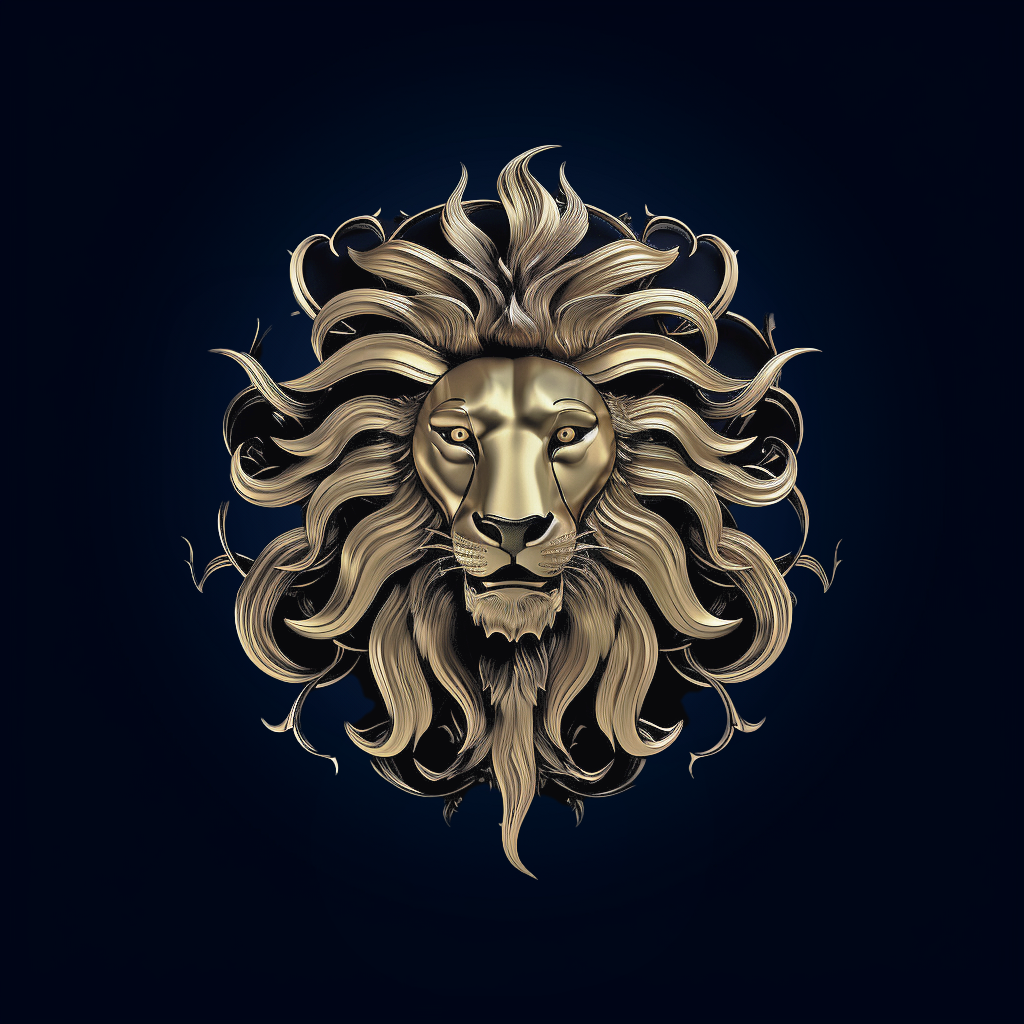
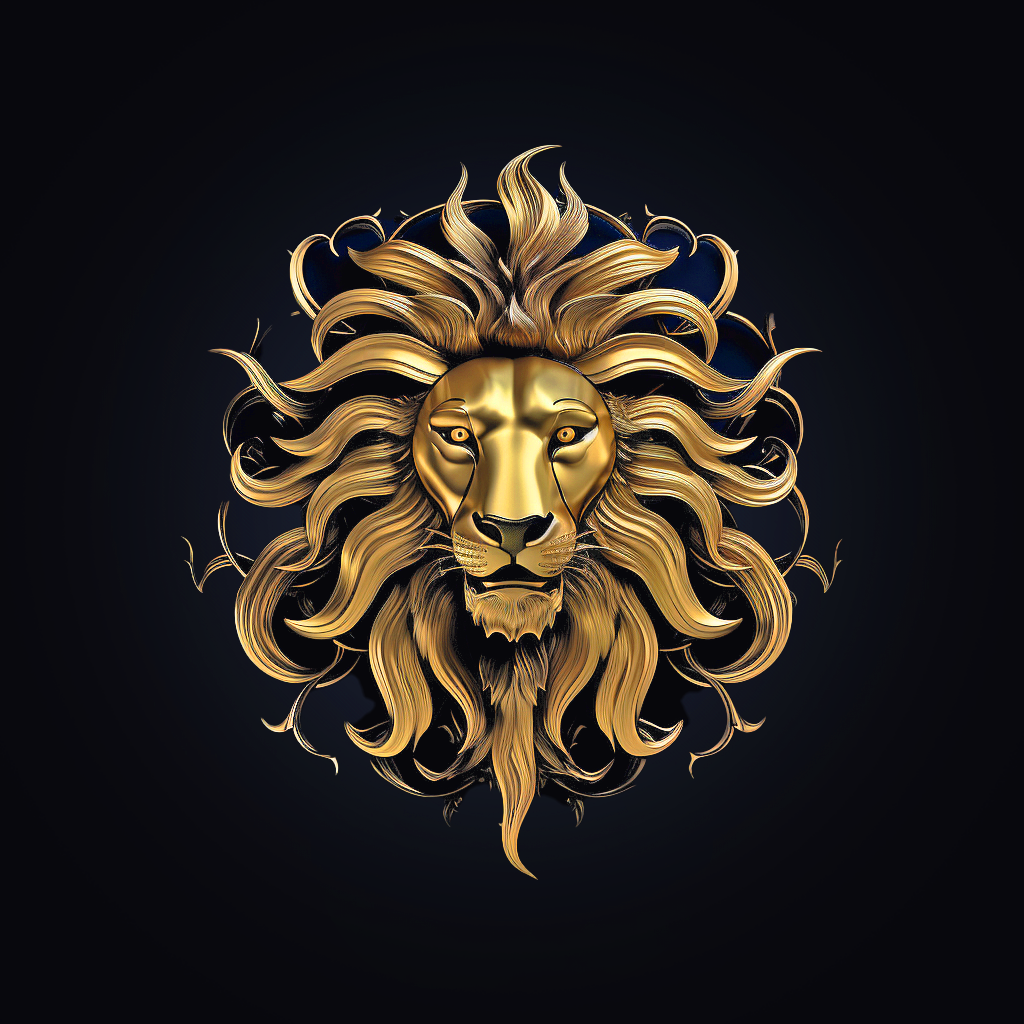
Images

Changed region(s): [[0.2188, 0.1562, 0.8125, 0.8438], [0.2812, 0.6562, 0.3125, 0.6875], [0.2188, 0.3438, 0.25, 0.375]]

diff --git a/src/components/greeting/GreetingForm.js b/src/components/greeting/GreetingForm.js
@@ -21,13 +21,20 @@ const GreetingForm = ({ navigation }) => {
     const greetingPage = appConfig[user.language]["GreetingPage"];
 
     const images = {
-        "Welcome": require('../../static/image/midjourneycat_by_Bess_Hamiti_Starry_sky_realistic_photo.png'),
-        "Daily": require('../../static/image/midjourneycat_by_Tami_Bone_Starry_sky_realistic_photo.png'),
-        "Profile": require('../../static/image/midjourneycat_by_Banksy_Starry_sky_realistic_photo.png'),
-        "Astrobot": require('../../static/image/midjourneycat_by_David_Carson_Starry_sky_realistic_photo.png'),
-        "Content": require('../../static/image/midjourneycat_by_Neville_Brody_Starry_sky_realistic_photo.png'),
-        "Push": require('../../static/image/midjourneycat_by_Scarlett_Hooft_Graafland_Starry_sky_realistic_photo.png'),
-        "Premium": require('../../static/image/midjourneycat_by_Peter_Saville_Starry_sky_realistic_photo.png'),
+        "Welcome": require('../../static/image/Sky1.png'),
+        //"Welcome": require('../../static/image/midjourneycat_by_Bess_Hamiti_Starry_sky_realistic_photo.png'),
+        "Daily": require('../../static/image/Sky2.png'),
+        //"Daily": require('../../static/image/midjourneycat_by_Tami_Bone_Starry_sky_realistic_photo.png'),
+        "Profile": require('../../static/image/Sky3.png'),
+        //"Profile": require('../../static/image/midjourneycat_by_Banksy_Starry_sky_realistic_photo.png'),
+        "Astrobot": require('../../static/image/Sky4.png'),
+        //"Astrobot": require('../../static/image/midjourneycat_by_David_Carson_Starry_sky_realistic_photo.png'),
+        "Content": require('../../static/image/Sky5.png'),
+        //"Content": require('../../static/image/midjourneycat_by_Neville_Brody_Starry_sky_realistic_photo.png'),
+        "Push": require('../../static/image/Sky6.png'),
+        //"Push": require('../../static/image/midjourneycat_by_Scarlett_Hooft_Graafland_Starry_sky_realistic_photo.png'),
+        "Premium": require('../../static/image/Sky7.png'),
+        //"Premium": require('../../static/image/midjourneycat_by_Peter_Saville_Starry_sky_realistic_photo.png'),
         // ...
     };
 

diff --git a/src/components/greeting/GreetingPage.js b/src/components/greeting/GreetingPage.js
@@ -24,34 +24,39 @@ const GreetingPage = ({ imageSource, headerText, bodyText }) => {
 const styles = StyleSheet.create({
     container: {
         flex: 1,
-        width: '100%',
+        width: screenWidth,
         alignItems: 'center',
-        marginTop: 10,
+        marginTop: 20,
         // borderWidth: 1,
         // borderColor: "red" 
     },
     image: {
-        width: screenWidth,
+        padding: 20,
+        width: screenWidth - 60,
         height: imageHeight,
+        borderRadius: designConstants.borderRadius,
+        borderWidth: 1,
+        borderColor: "#181d2e"
     },
     textContainer: {
         //padding: 16,
-        marginTop: 10,
+        marginTop: 20,
         width: screenWidth - 30,
 
     },
     header: {
-        fontSize: 34,
+        fontSize: 30,
         lineHeight: 40,
         textAlign: 'center',
         flexWrap: 'wrap',
     },
     body: {
         fontSize: 16,
-        //lineHeight: 32,
+        lineHeight: 22,
         paddingTop: 10,
         textAlign: 'justify',
         flexWrap: 'wrap',
+        //fontFamily: 'Raleway-LightItalic'
         // borderWidth: 1,
         // borderColor: "red" 
     },

diff --git a/src/components/entryPoints/UserGate.js b/src/components/entryPoints/UserGate.js
@@ -38,7 +38,7 @@ export default function UserGate() {
                 </View>
             </Container>
             <Stack.Navigator initialRouteName="SignIn">
-                <Stack.Screen
+                {/* <Stack.Screen
                     name="SignIn"
                     component={SignIn}
                     options={{ headerShown: false }}
@@ -72,7 +72,7 @@ export default function UserGate() {
                     name="Subscription"
                     component={SubscriptionScreenWrapper}
                     options={{ headerShown: false }}
-                />
+                /> */}
                 <Stack.Screen
                     name="GreetingForm"
                     component={GreetingForm}

diff --git a/src/hooks/loadFonts.js b/src/hooks/loadFonts.js
@@ -12,6 +12,8 @@ export function useFonts() {
                 'Raleway-Black': require('../static/fonts/raleway/Raleway-Black.ttf'),
                 'Raleway-Medium': require('../static/fonts/raleway/Raleway-Medium.ttf'),
                 'Raleway-Heavy': require('../static/fonts/raleway.heavy.ttf'),
+                'Raleway-Italic': require('../static/fonts/raleway/Raleway-Italic.ttf'),
+                'Raleway-LightItalic': require('../static/fonts/raleway/Raleway-LightItalic.ttf'),
             });
             setFontLoaded(true);
         }

diff --git a/src/components/astrobots/AstrobotPage.js b/src/components/astrobots/AstrobotPage.js
@@ -80,9 +80,12 @@ const styles = StyleSheet.create({
 
     },
     image: {
-        width: 280,
-        height: 280,
-        marginTop: 0, // Отступ сверху
+        width: 270,
+        height: 270,
+        marginTop: 10,
+        borderRadius: designConstants.borderRadius,
+        borderWidth: 1,
+        borderColor: colors.gold
         //marginBottom: 10,
         // borderWidth: 1,
         // borderColor: "red", 

diff --git a/src/components/prediction/Zodiak.js b/src/components/prediction/Zodiak.js
@@ -43,6 +43,7 @@ const styles = StyleSheet.create({
         top: 30
     },
     buttonContainer: {
+        paddingTop: 20,
         width: '33.333%',
         //padding: 5,
 
